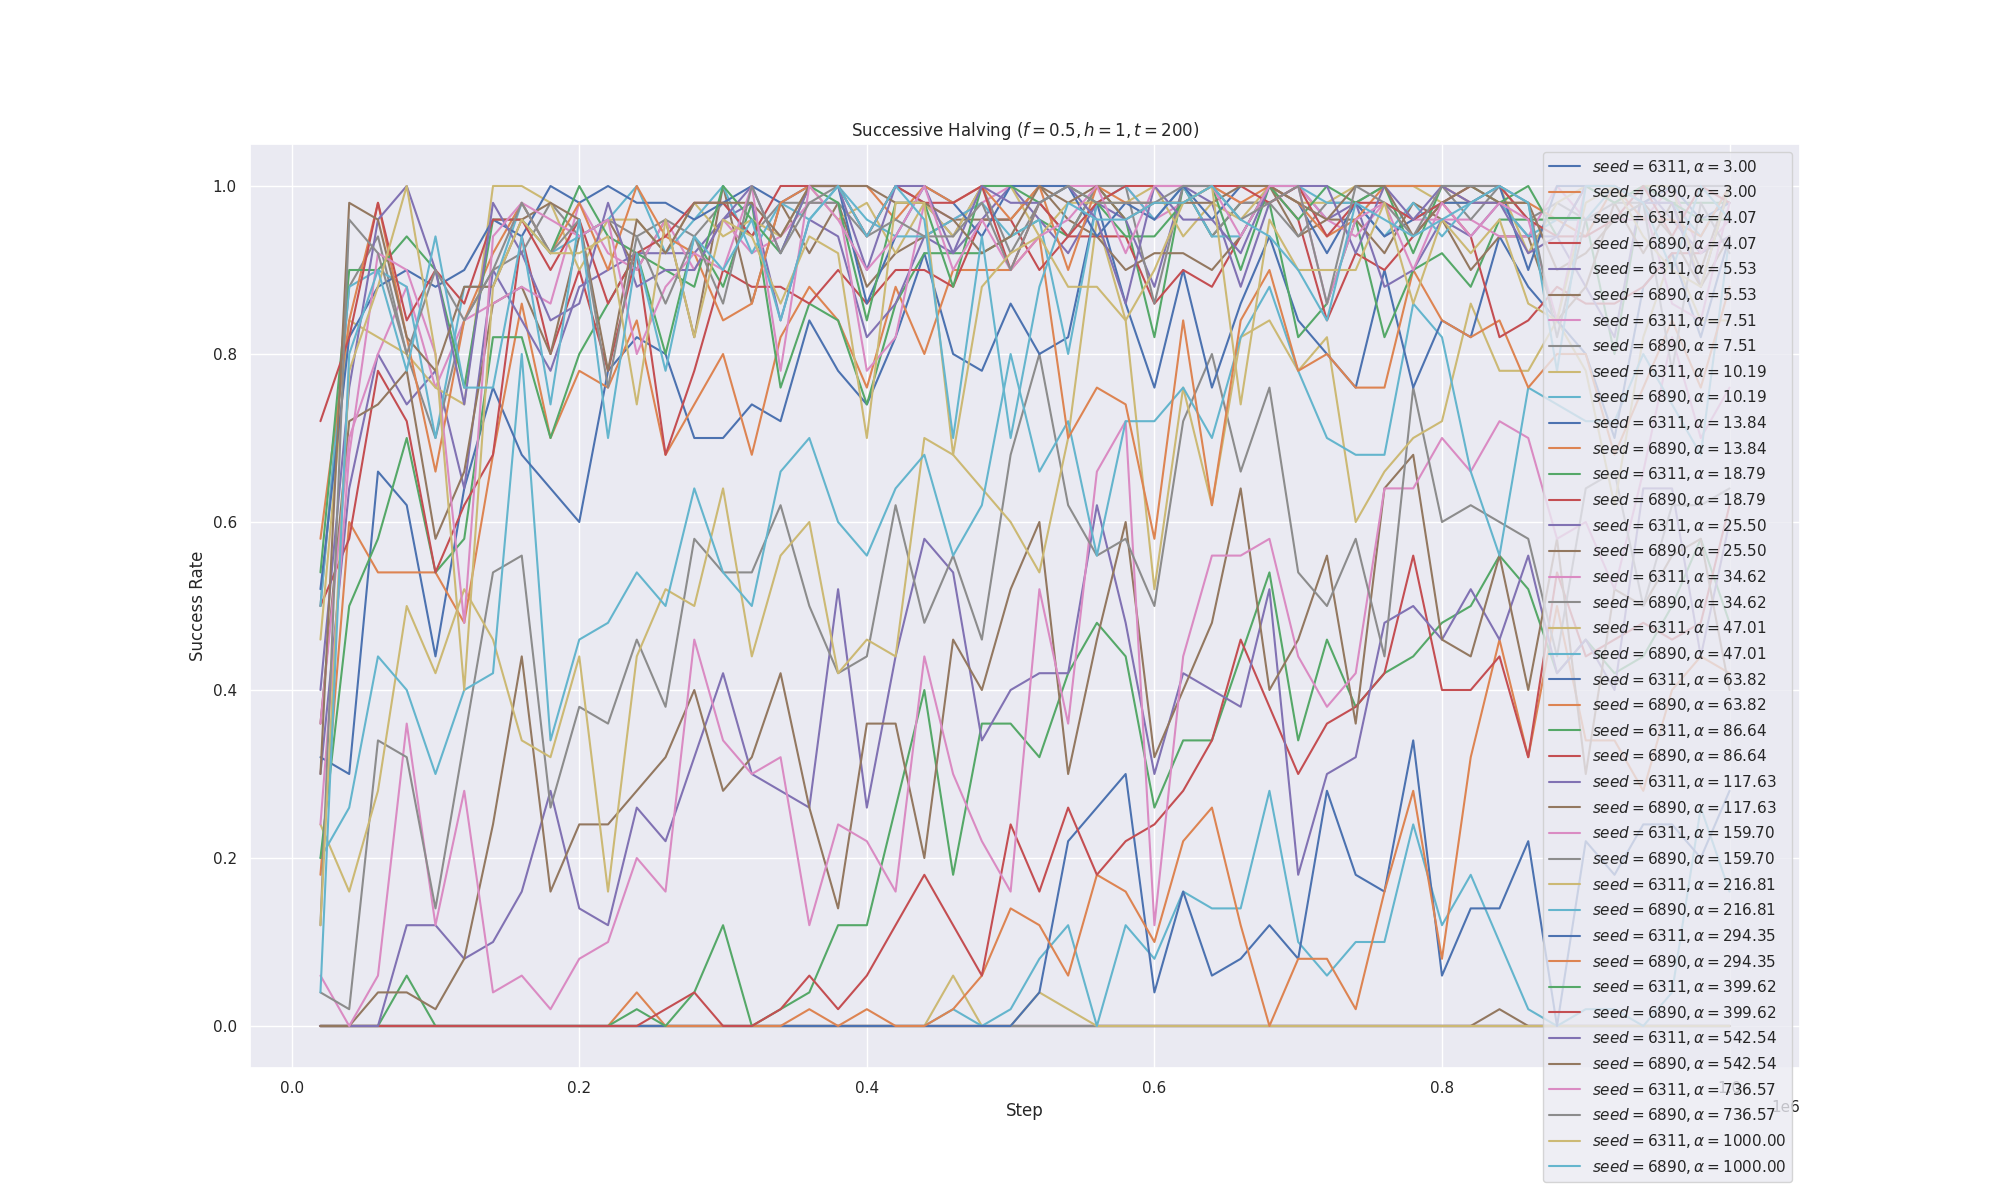
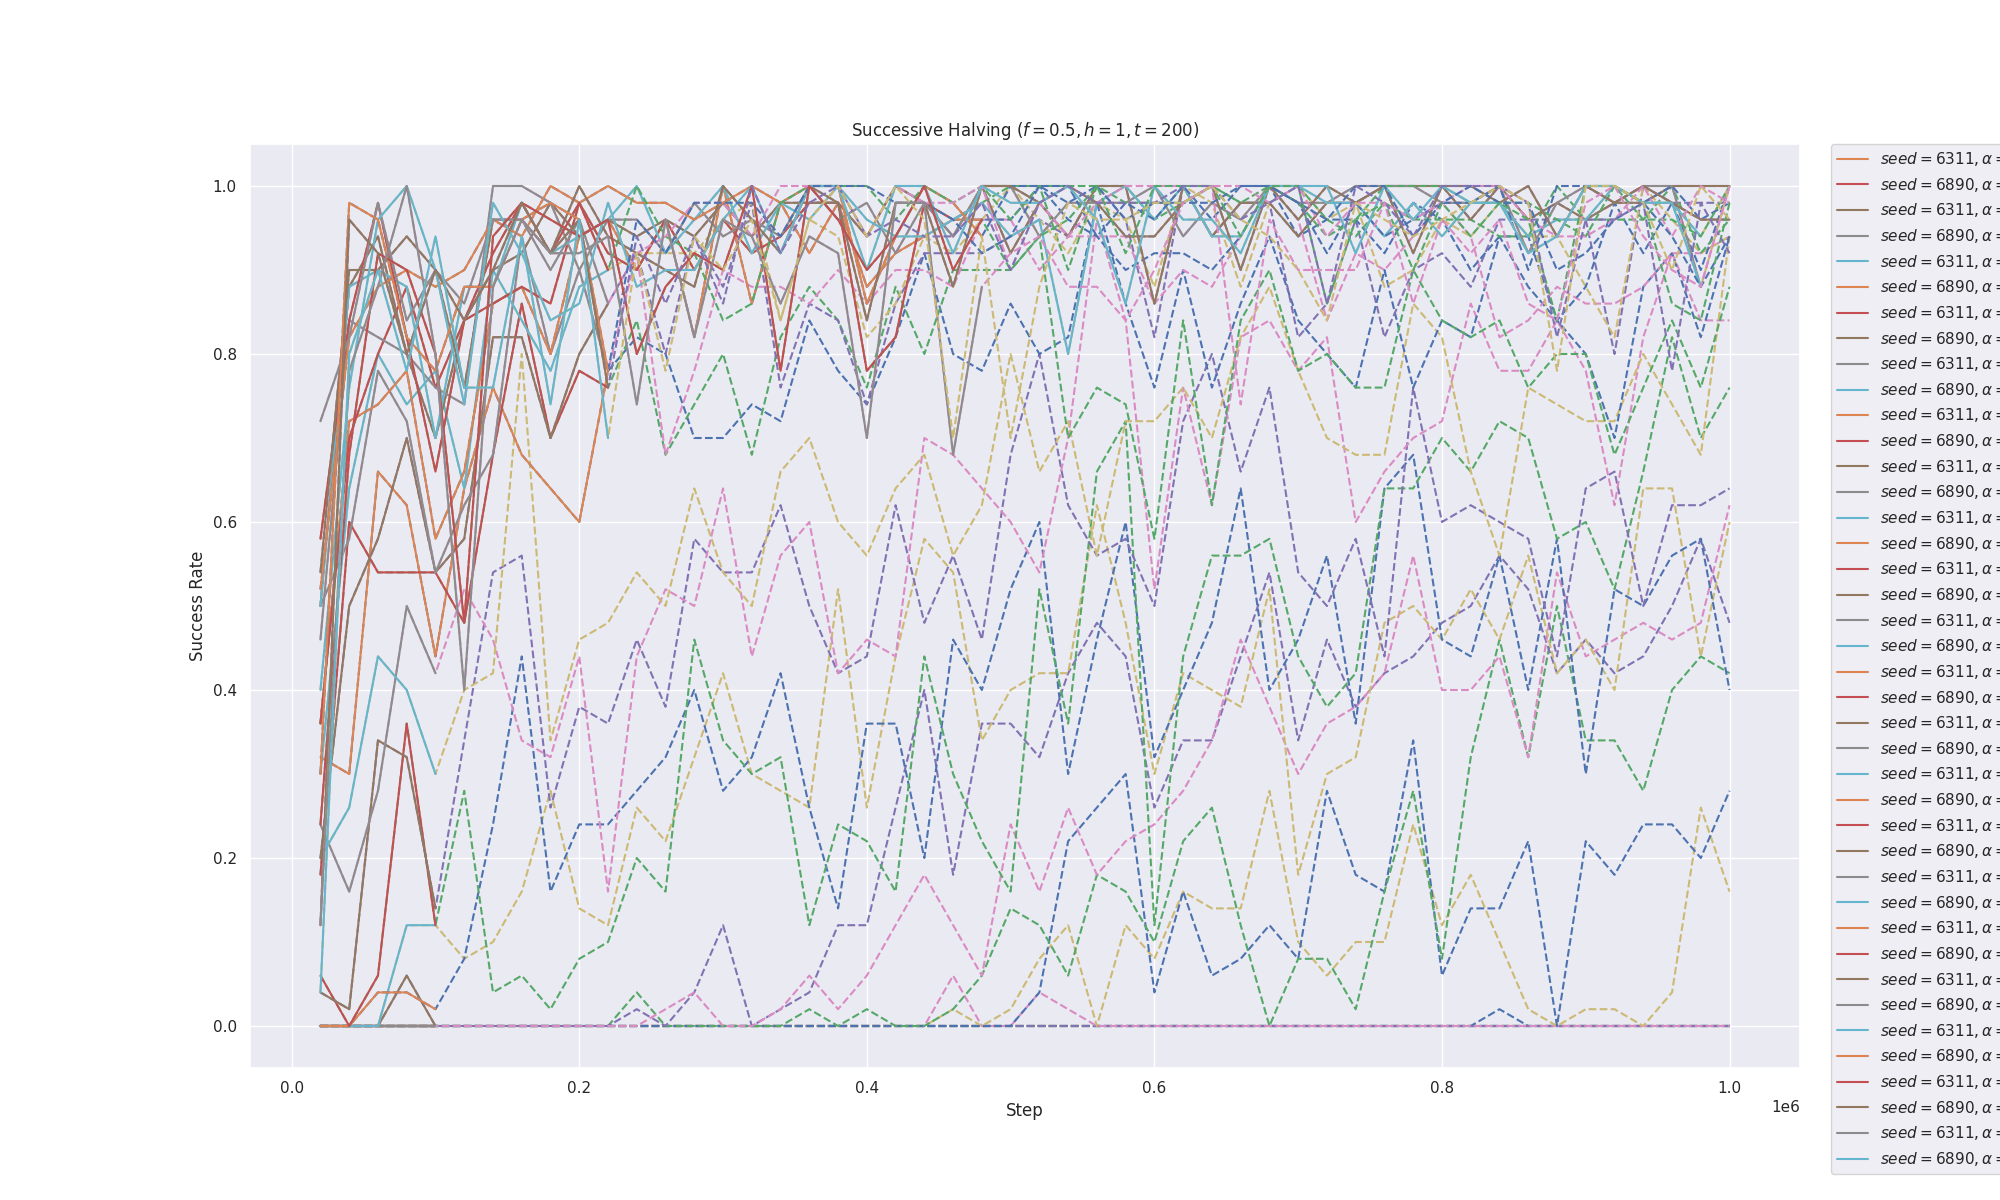
clearer plots

diff --git a/evaluator/strategy_evaluator.py b/evaluator/strategy_evaluator.py
@@ -61,28 +61,25 @@ class StrategyEvaluator:
     def plot(self):
         sns.set_theme(style="darkgrid")
         plt.figure(figsize=(20, 12))
-        for experiment in self.experiments.values():
+        for config, experiment in self.experiments.items():
+            stopped_at = self.stopping_step.get(config, self.config.steps)
             data = experiment.get_data()
             sns.lineplot(
                 data=data,
                 x="step",
                 y="success",
-                label=experiment.get_label(),
                 linestyle="--"
-                if experiment.current_step in self.stopping_step
-                else "-",
             )
-            if experiment.current_step in self.stopping_step:
-                sns.lineplot(
-                    data=data[data["step"] <= experiment.current_step],
-                    x="step",
-                    y="success",
-                    label=experiment.get_label(),
-                )
+            sns.lineplot(
+                data=data[data["step"] <= experiment.current_step],
+                x="step",
+                y="success",
+                label=experiment.get_label()
+            )
         plt.xlabel("Step")
         plt.ylabel("Success Rate")
         plt.title(get_strategy_title(self.strategy))
-        # plt.legend()
+        plt.legend(bbox_to_anchor=(1.02, 1), loc='upper left', borderaxespad=0)
         plt.savefig(f"report/{get_strategy_title(self.strategy)}.png")
         plt.close()
 
